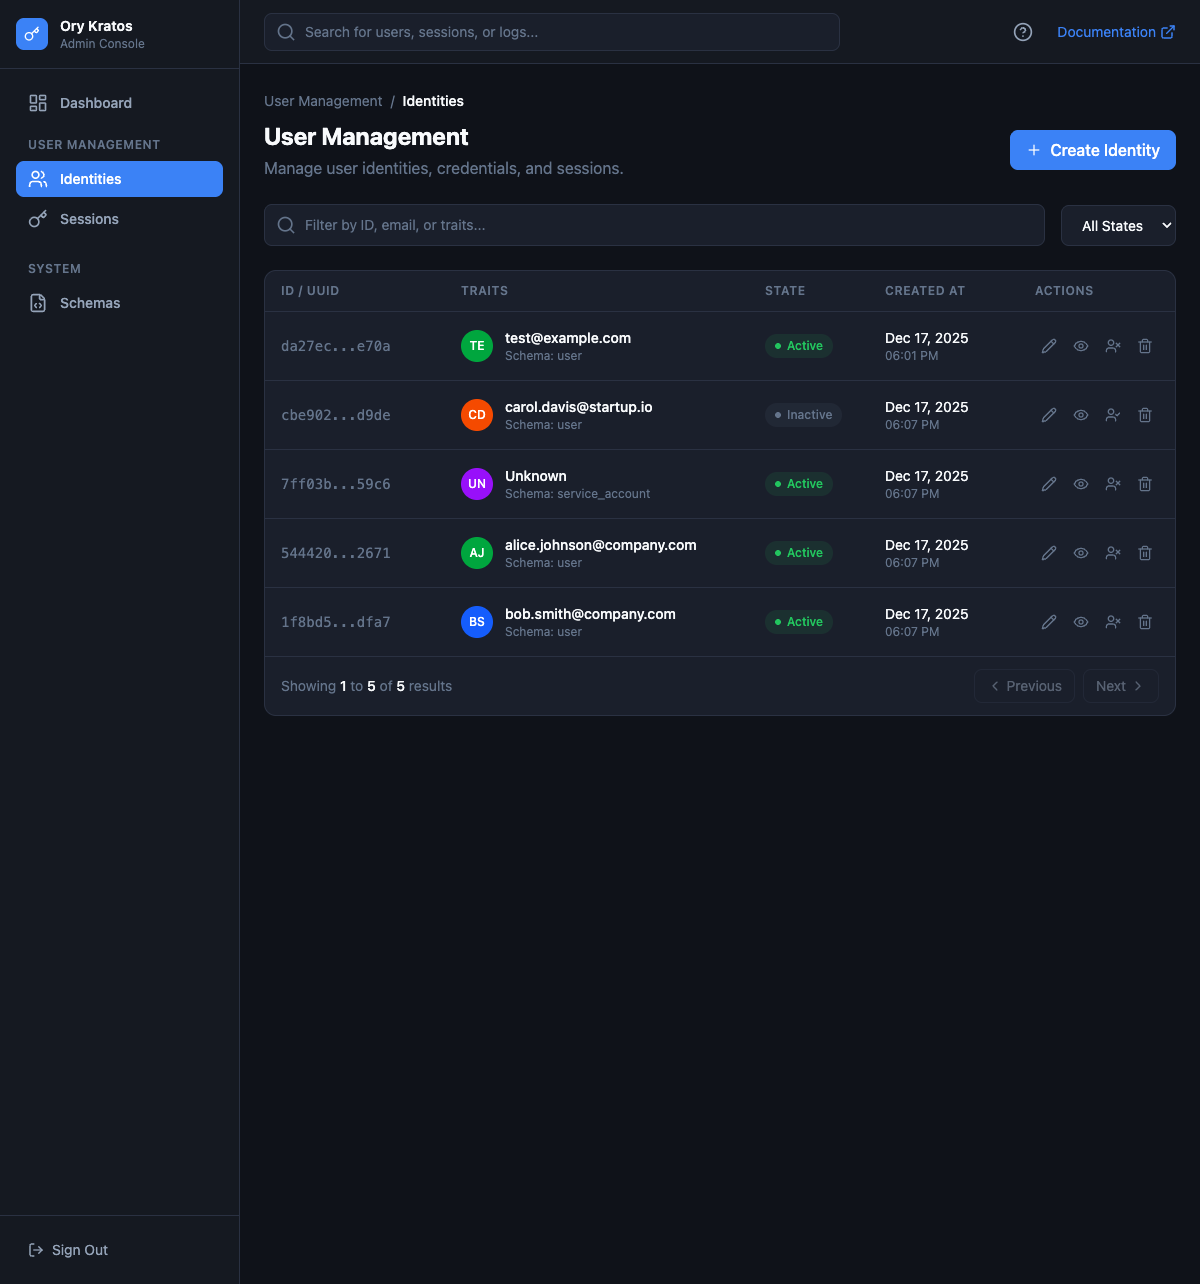
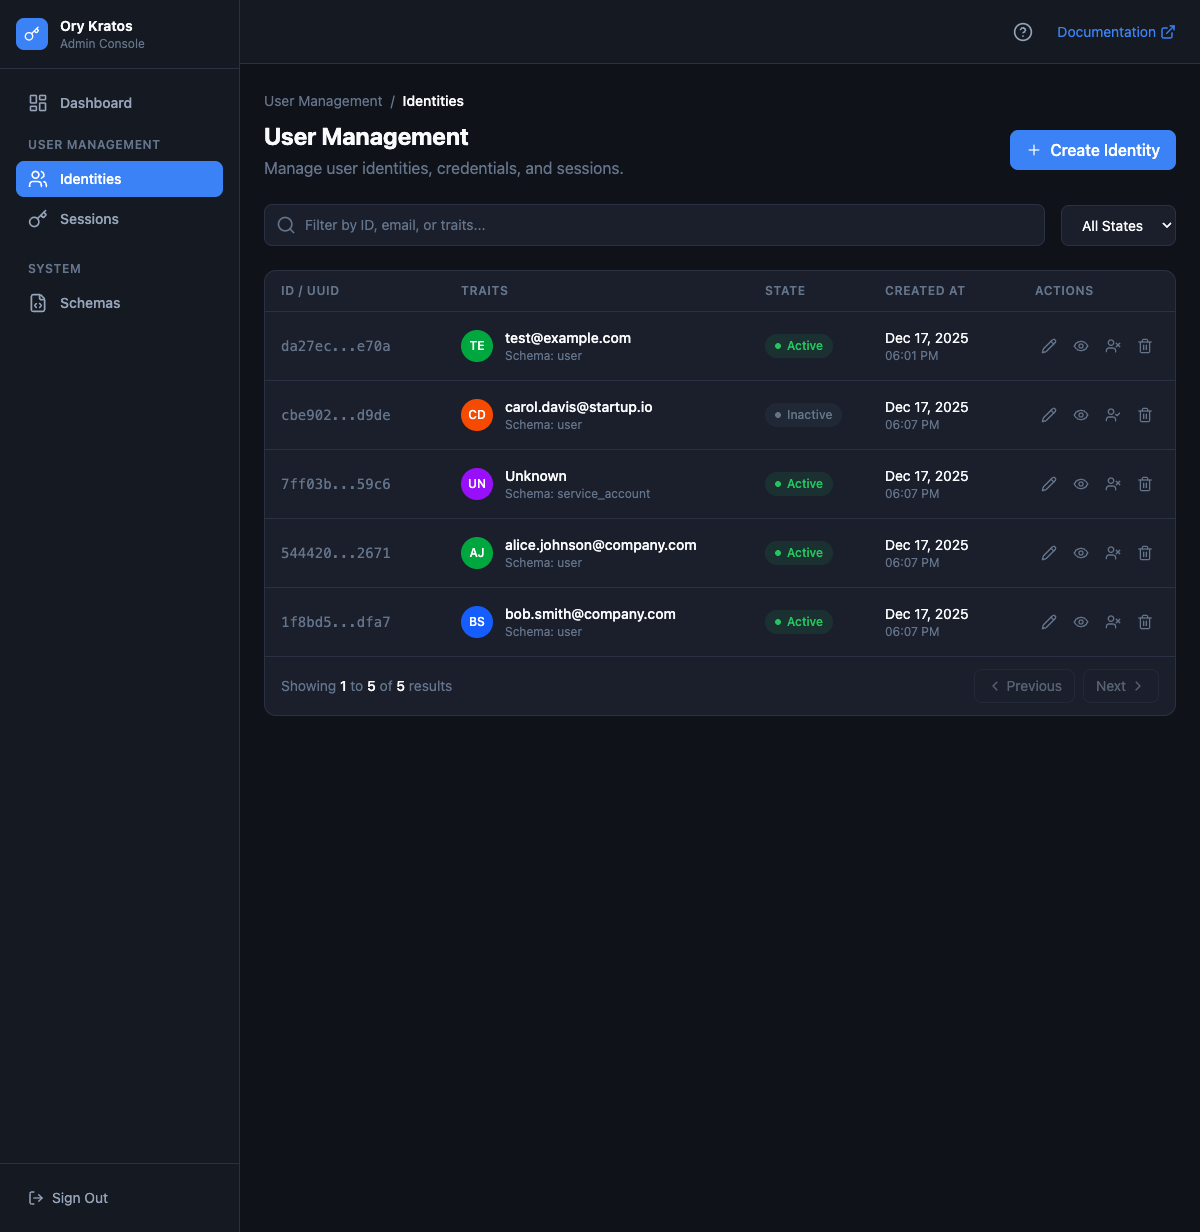
fix(ui): remove unused search bar from header
The global search bar in the header was not functional, so it has been
removed to clean up the UI. Updated the documentation screenshot to
reflect this change.

diff --git a/frontend/src/components/layout/AppHeader.vue b/frontend/src/components/layout/AppHeader.vue
@@ -1,25 +1,9 @@
 <script setup lang="ts">
-import { ref } from 'vue'
-import { Search, HelpCircle, ExternalLink } from 'lucide-vue-next'
-
-const searchQuery = ref('')
+import { HelpCircle, ExternalLink } from 'lucide-vue-next'
 </script>
 
 <template>
-  <header class="h-16 bg-sidebar border-b border-border flex items-center justify-between px-6">
-    <!-- Search -->
-    <div class="flex-1 max-w-xl">
-      <div class="relative">
-        <Search class="absolute left-3 top-1/2 -translate-y-1/2 w-5 h-5 text-text-muted" />
-        <input
-          v-model="searchQuery"
-          type="text"
-          placeholder="Search for users, sessions, or logs..."
-          class="w-full pl-10 pr-4 py-2 bg-card border border-border rounded-lg text-sm text-text-primary placeholder-text-muted focus:outline-none focus:border-primary transition-colors"
-        />
-      </div>
-    </div>
-
+  <header class="h-16 bg-sidebar border-b border-border flex items-center justify-end px-6">
     <!-- Right side -->
     <div class="flex items-center gap-4">
       <!-- Help -->
@@ -40,6 +24,7 @@ const searchQuery = ref('')
     </div>
   </header>
 </template>
+
 
 
 
